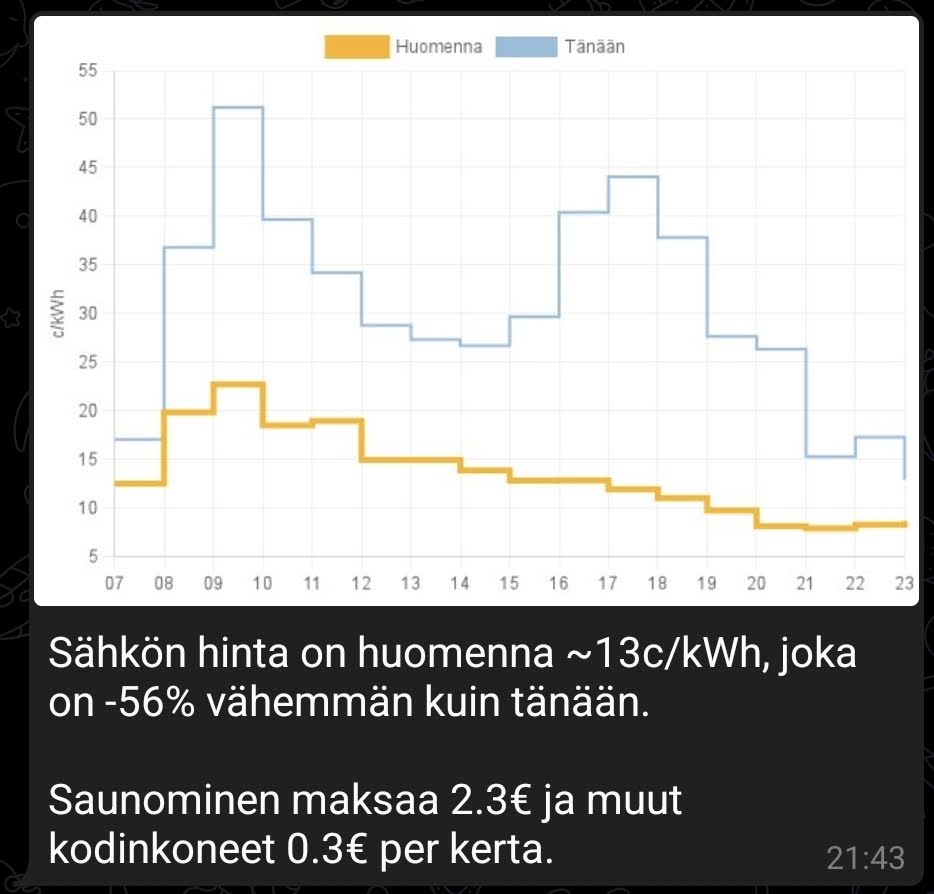
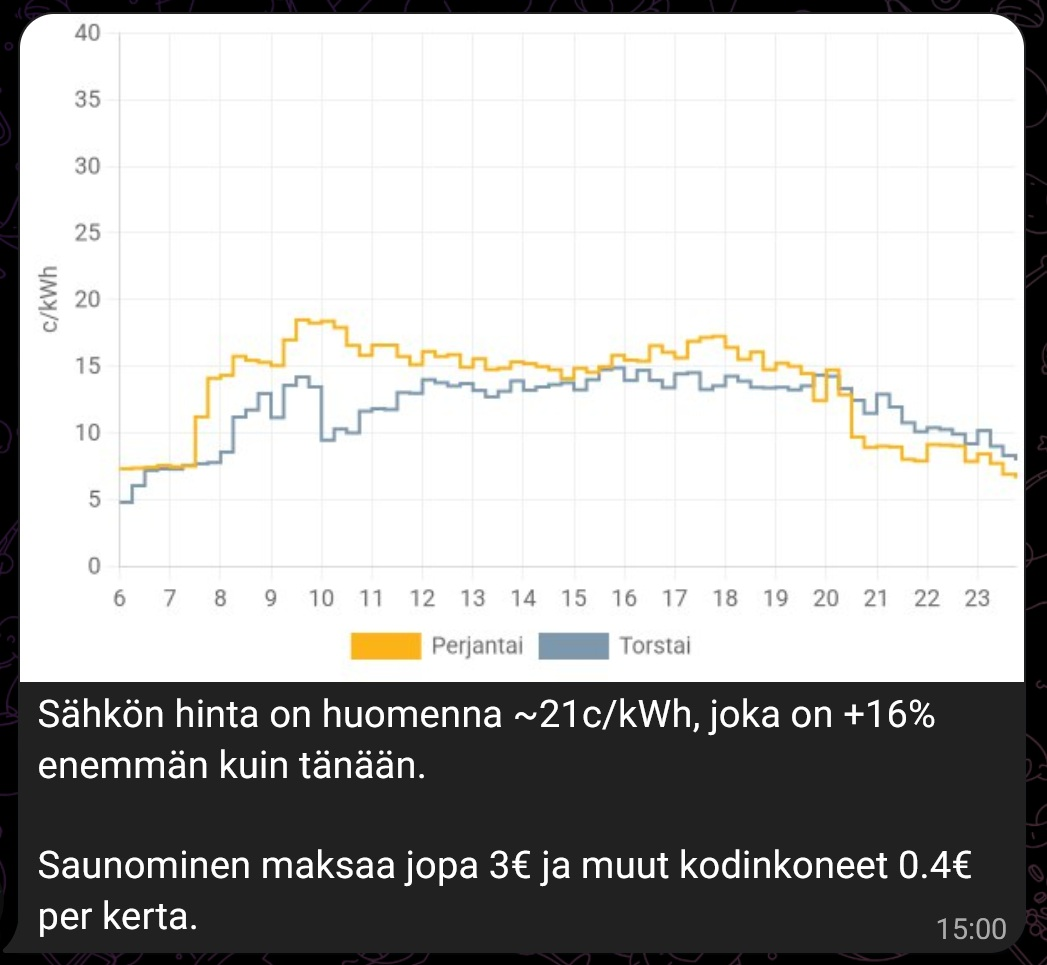
Update screenshot and description

Changed region(s): [[0.0, 0.0, 1.0, 1.0], [0.2794, 0.1208, 0.3415, 0.302], [0.2173, 0.1208, 0.2484, 0.2718]]

diff --git a/README.md b/README.md
@@ -4,11 +4,7 @@ A Telegram bot for monitoring spot prices of electricity. To sauna or not to sau
 
 ![Electrified Scrooge](elektro-scrooge.jpg)
 
-The app pulls hourly spot prices for Nord Pool, and divides them into day (07:00-23:59) and night (00:00-06:59) segments.
-
-Daily averages are calculated from the day segment only. Nightly prices are ignored.
-
-The app adds electricity company margin, Finnish VAT, grid transfer fees and electricity tax to the spot prices, so all values shown are total prices per kWh.
+The app pulls hourly spot prices for Nord Pool and adds electricity company margin, Finnish VAT, grid transfer fees and electricity tax to the spot prices, so all values shown are total prices per kWh. Therefore, even when the spot price is zero, the final price is around ~6-7 eurocents per kWh.
 
 ![Screenshot of a price message from the bot](screenshot.jpg)
 
